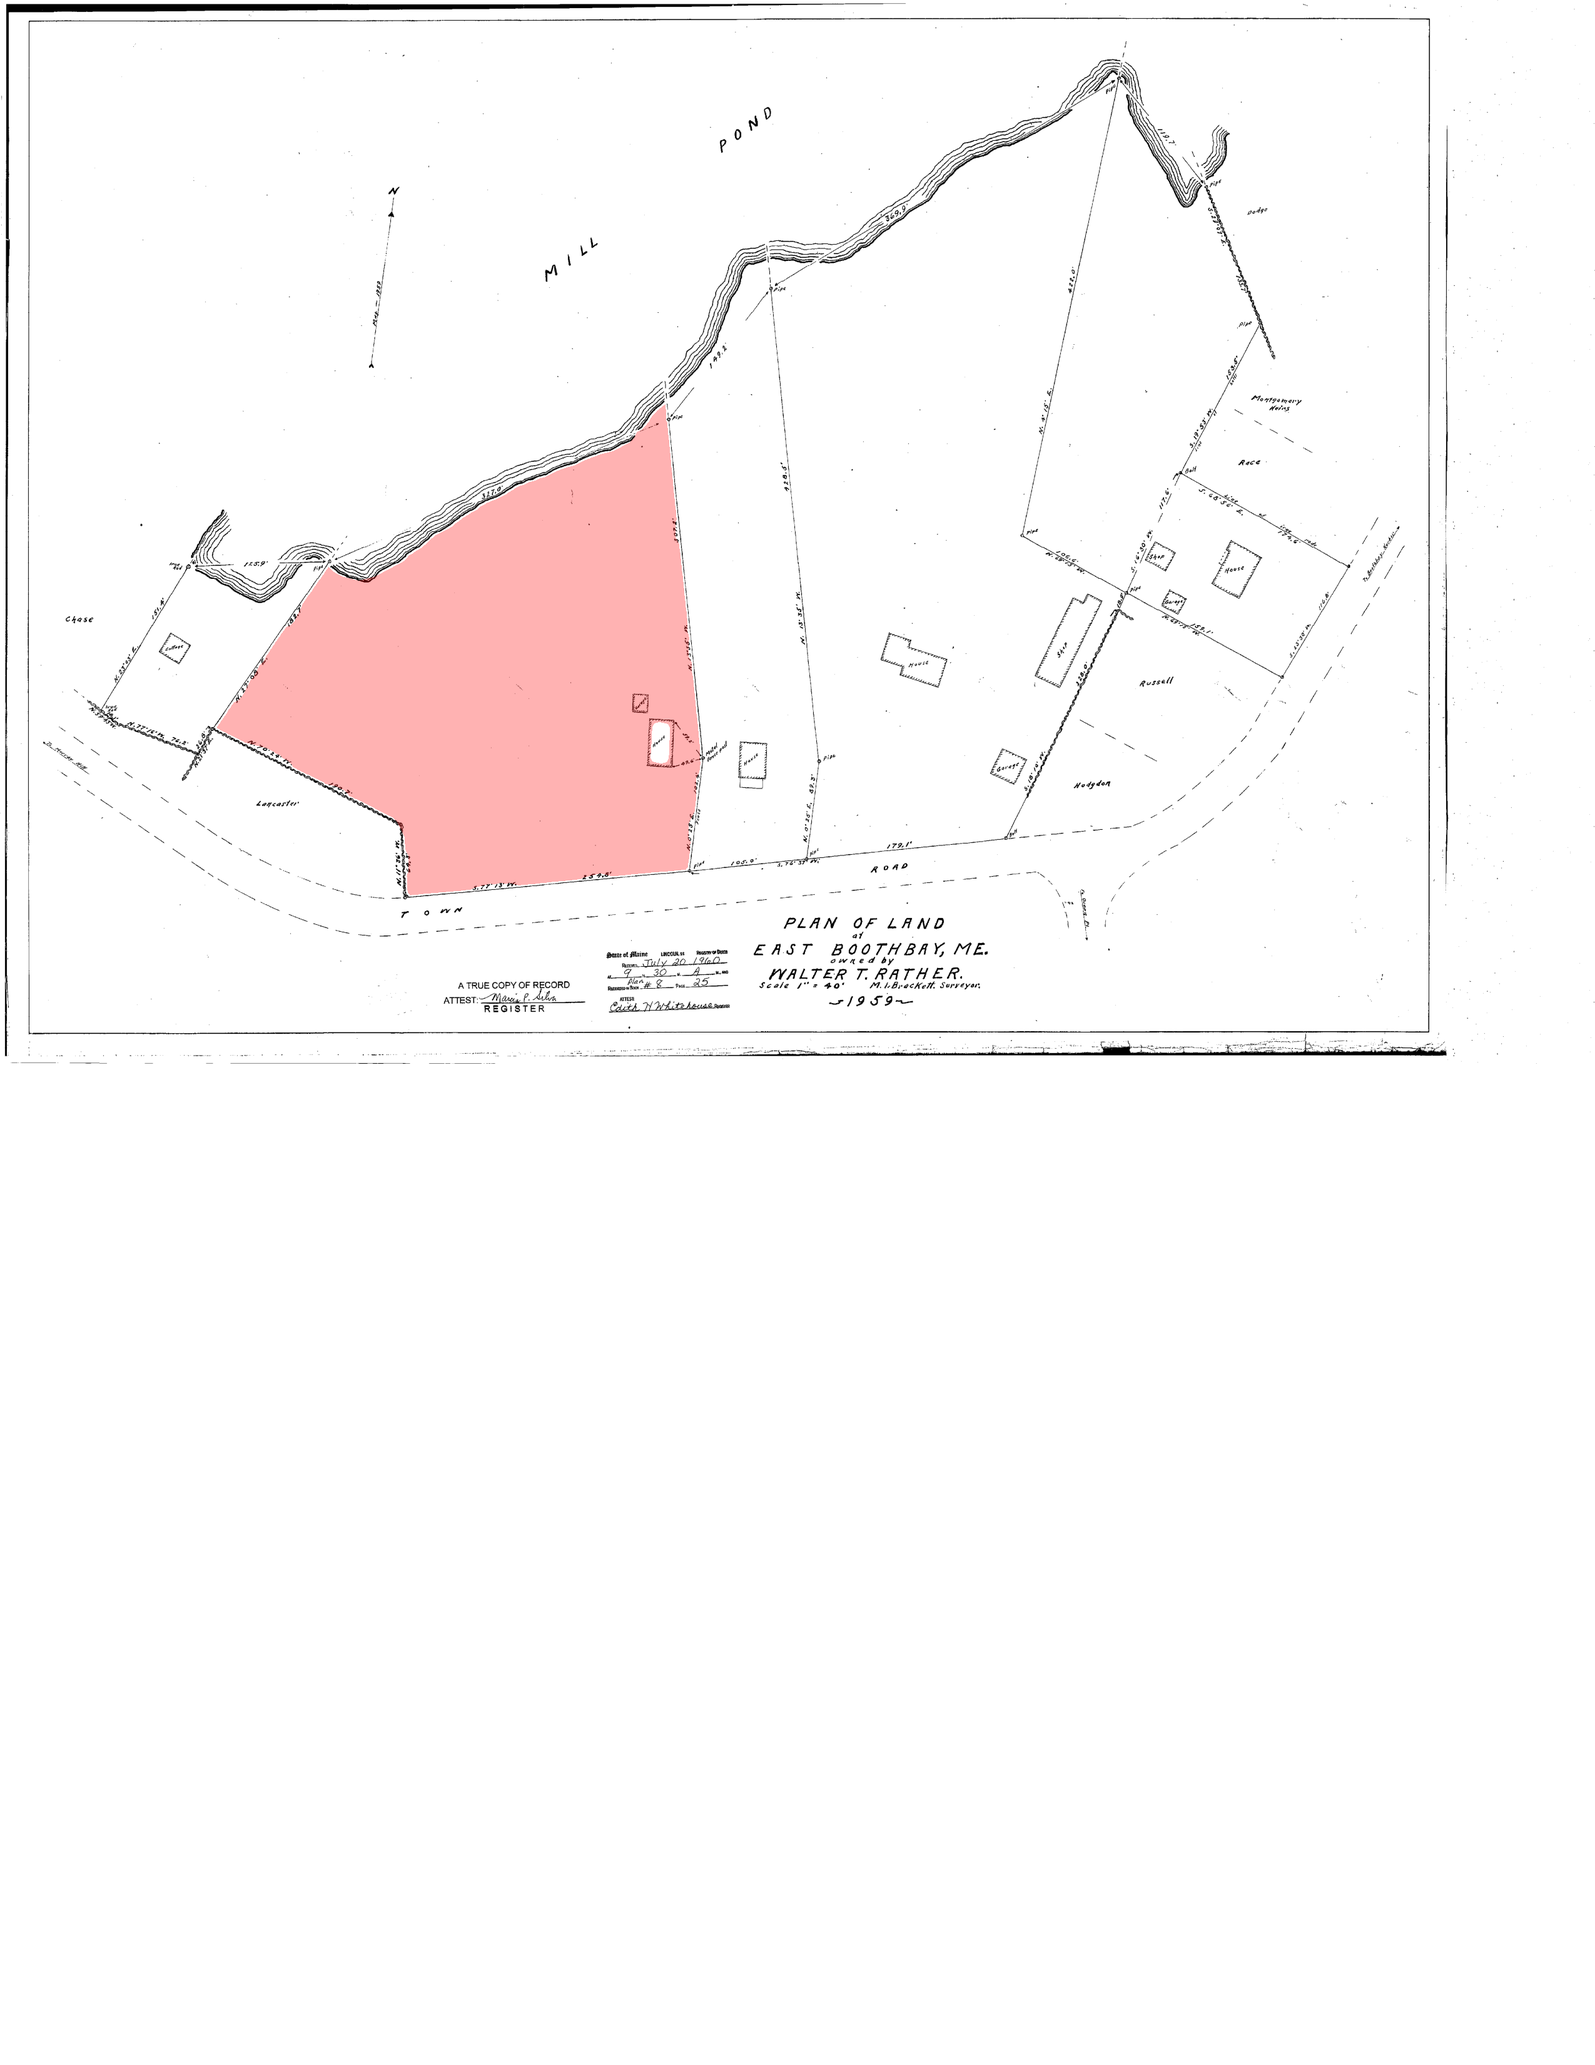
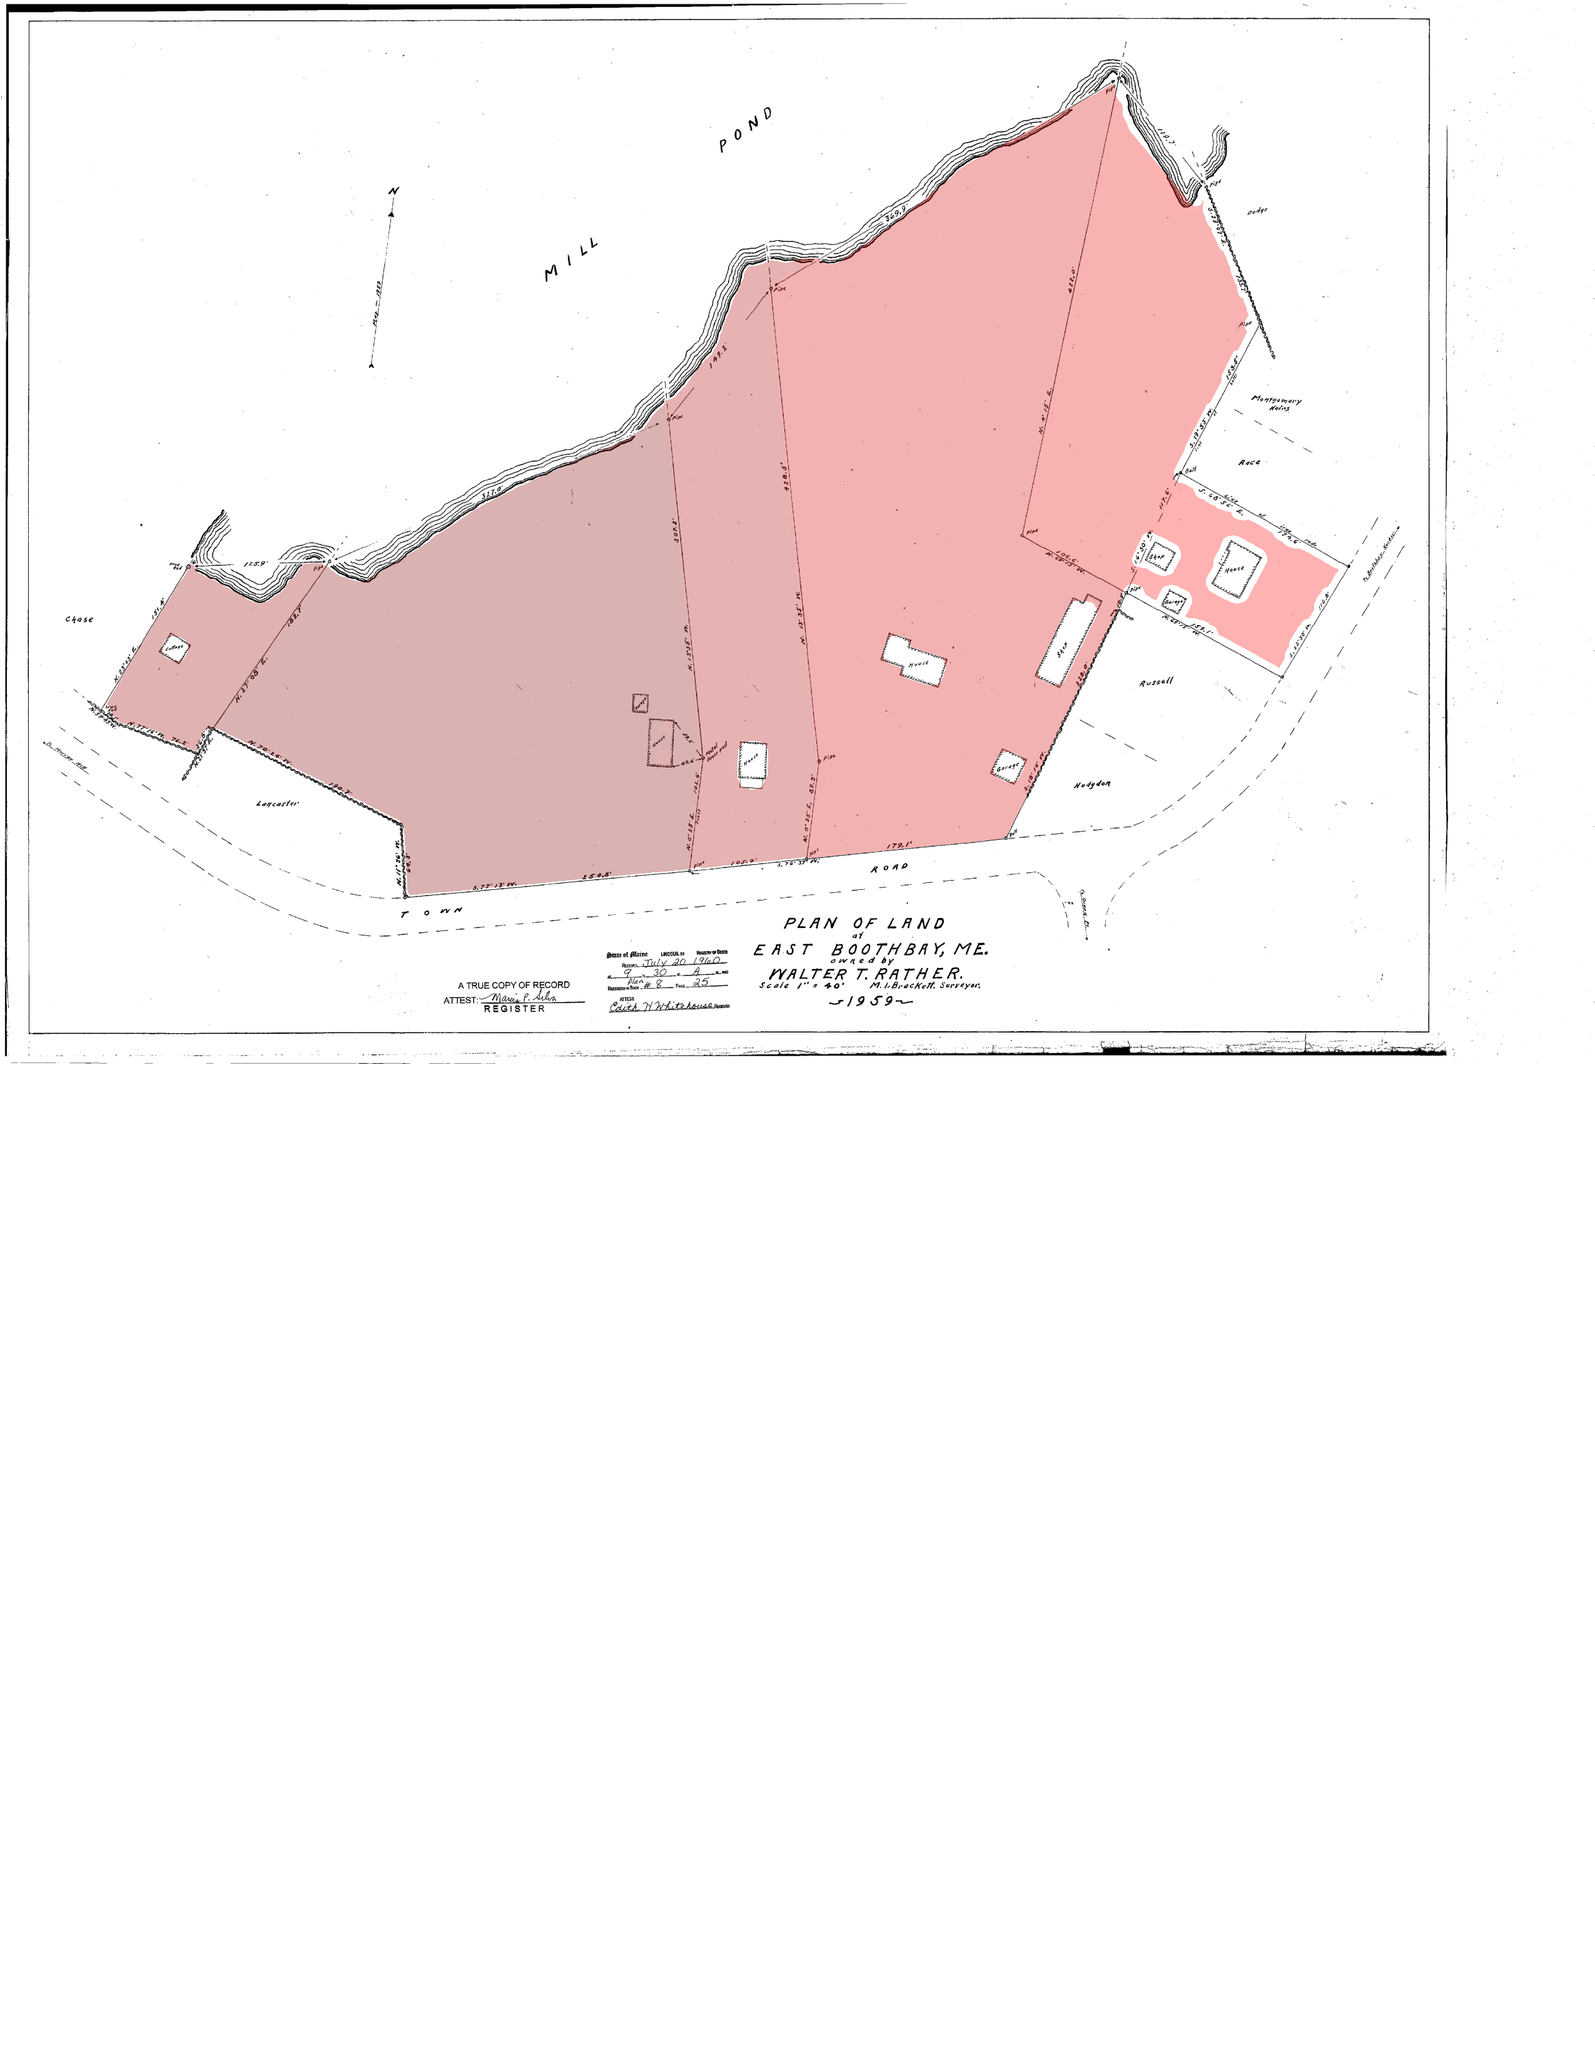
text bridging works with lots of porkfat in code.  will work to reducde this for next push. also working to have adaptive leak detection and plugging for alternate method of this current workaround.

Changed region(s): [[0.062, 0.0312, 0.8365, 0.437]]

diff --git a/SeedPointFillToMaskImageOut/SeedPointFillToMaskImageOut_qt(r9d).py b/SeedPointFillToMaskImageOut/SeedPointFillToMaskImageOut_qt(r9d).py
@@ -277,6 +277,11 @@ class FloodFillApp(QMainWindow):
         self.simplified2_parallel_contours = None
         self.skeleton_overlay_img = None
 
+        # Add debug visualization fields for bridge_outer_boundary_over_text
+        self.debug_detected_boundary_lines = []
+        self.debug_bridge_connectors = []
+        self.bridged_regions_mask = None  # Accumulates all bridged areas across seed points
+
     def _make_slider(self, label, minv, maxv, val, slot=None):
         from PyQt5.QtWidgets import QVBoxLayout, QHBoxLayout, QWidget
         w = QWidget()
@@ -660,12 +665,19 @@ class FloodFillApp(QMainWindow):
         self.bridge_outer_boundary_over_text(
             gap_px, 
             dilate_strip_iters=12, 
-            ransac_residual=1.6, 
+            ransac_residual=1.5, 
             min_line_len_px=40, 
             band_thick=14, 
             guide_thick=16, 
-            close_iters=6, 
-            finalize_max_dev_px=16)
+            close_iters=2, 
+            finalize_max_dev_px=20,
+            # NEW gap bridging params
+            enable_gap_bridging=True,
+            parallel_angle_tol_deg=10.0,  # stricter alignment
+            max_gap_distance=None,         # auto (8× local_radius)
+            bridge_line_thick=1,         # auto (local_radius)
+            min_sample_line_len_px=40  # NEW: explicit control for sample line geometry minimum length
+        )
 
 
         # === 7) Local cleanup (closing) ===
@@ -1025,6 +1037,34 @@ class FloodFillApp(QMainWindow):
                     painter.drawEllipse(QPoint(x, y), 8, 8)
             painter.end()
                 # Draw skeleton best-fit lines in cyan
+        # Draw detected boundary long lines in yellow
+        if hasattr(self, 'debug_detected_boundary_lines') and self.debug_detected_boundary_lines:
+            painter = QPainter(self.canvas.pixmap())
+            pen = QPen(QColor(255, 255, 0, 200))  # Yellow, semi-transparent
+            pen.setWidth(3)
+            pen.setCapStyle(Qt.RoundCap)
+            painter.setPen(pen)
+            for pt1, pt2 in self.debug_detected_boundary_lines:
+                x1, y1 = self.image_to_canvas_coords(pt1[0], pt1[1])
+                x2, y2 = self.image_to_canvas_coords(pt2[0], pt2[1])
+                painter.drawLine(x1, y1, x2, y2)
+            painter.end()
+    
+        # Draw bridge connectors in bright green
+        if hasattr(self, 'debug_bridge_connectors') and self.debug_bridge_connectors:
+            painter = QPainter(self.canvas.pixmap())
+            pen = QPen(QColor(128, 128, 128, 220))  # Bright green
+            pen.setWidth(1)
+            pen.setCapStyle(Qt.RoundCap)
+            painter.setPen(pen)
+            for b1, b2 in self.debug_bridge_connectors:
+                x1, y1 = self.image_to_canvas_coords(b1[0], b1[1])
+                x2, y2 = self.image_to_canvas_coords(b2[0], b2[1])
+                painter.drawLine(x1, y1, x2, y2)
+                # Draw endpoint markers
+                painter.drawEllipse(QPoint(x1, y1), 6, 6)
+                painter.drawEllipse(QPoint(x2, y2), 6, 6)
+            painter.end()
 
     def clear_canvas(self):
         if hasattr(self, 'original_image') and self.original_image is not None:
@@ -1054,6 +1094,11 @@ class FloodFillApp(QMainWindow):
         self.distance_label.setText("Right Click Distance Measure: N/A")
         self.scale_factor_label.setText("Scale Factor: Not set")
         self.update_canvas_image()
+        self.debug_detected_boundary_lines = []
+        self.debug_bridge_connectors = []
+        self.bridged_regions_mask = None  # NEW: Reset bridged regions
+        self.update_canvas_image()
+
 
     def fit_to_view(self):
         if self.image is None:
@@ -2691,10 +2736,20 @@ class FloodFillApp(QMainWindow):
         band_thick: int = None,
         guide_thick: int = None,
         close_iters: int = 2,
-        finalize_max_dev_px: float = 6.0
+        finalize_max_dev_px: float = 6.0,
+        # NEW: gap bridging params
+        enable_gap_bridging: bool = True,
+        parallel_angle_tol_deg: float = 15.0,
+        max_gap_distance: float = None,
+        bridge_line_thick: int = None,
+        # NEW: explicit control for sample line geometry minimum length
+        min_sample_line_len_px: int = None  # NEW PARAMETER
     ):
         """
         Bridge the outer boundary contour across near-parallel text defects lying just outside the mask.
+        Detects pairs of nearly-parallel long lines on opposite sides of text belts and bridges them.
+        Skips areas already bridged in previous seed point operations.
+
         Tunables:
         - dilate_strip_iters: widen the outside strip used to detect/suppress text belts.
         - ransac_residual: residual threshold for long-line detection (lower = stricter).
@@ -2703,6 +2758,11 @@ class FloodFillApp(QMainWindow):
         - guide_thick: thickness of line-guided fill drawn into the envelope.
         - close_iters: closing iterations when reconnecting the boundary.
         - finalize_max_dev_px: snapping tolerance when re-simplifying the updated outer contour.
+        - enable_gap_bridging: enable parallel line detection and bridging.
+        - parallel_angle_tol_deg: max angular difference (degrees) to consider lines parallel.
+        - max_gap_distance: max perpendicular distance between parallel line pairs (auto if None).
+        - bridge_line_thick: thickness of lines drawn to bridge gaps (auto if None).
+        - min_sample_line_len_px: minimum line length for contour sample line geometry creation (overrides min_line_len_px if set).
         """
         if self.mask is None or np.count_nonzero(self.mask) == 0:
             return
@@ -2716,18 +2776,35 @@ class FloodFillApp(QMainWindow):
         # Local scale (base from gap)
         local_radius = int(np.clip(max(1, gap_px), 2, 12))
 
+        # NEW: Use min_sample_line_len_px if provided, otherwise fall back to min_line_len_px or auto-calculate
+        if min_sample_line_len_px is not None:
+            effective_min_line_len = min_sample_line_len_px
+        elif min_line_len_px is not None:
+            effective_min_line_len = min_line_len_px
+        else:
+            effective_min_line_len = max(60, local_radius * 10)
+
         # Derived defaults if not provided
-        if min_line_len_px is None:
-            min_line_len_px = max(60, local_radius * 10)
         if band_thick is None:
             band_thick = max(8, local_radius + 3)
         if guide_thick is None:
             guide_thick = max(3, local_radius - 1)
+        if max_gap_distance is None:
+            max_gap_distance = float(local_radius * 8)  # auto: 8× local radius
+        if bridge_line_thick is None:
+            bridge_line_thick = max(4, local_radius)
 
         # Build widened outside strip next to the current outer contour
         se_rect = cv2.getStructuringElement(cv2.MORPH_RECT, (2 * local_radius + 1, 2 * local_radius + 1))
         dil_wide = cv2.dilate(mask_u8, se_rect, iterations=max(1, int(dilate_strip_iters)))
         outside_strip = cv2.bitwise_and(dil_wide, cv2.bitwise_not(mask_u8))
+    
+        # NEW: Initialize bridged_regions_mask if first call
+        if self.bridged_regions_mask is None:
+            self.bridged_regions_mask = np.zeros_like(mask_u8, dtype=np.uint8)
+        # NEW: Exclude already-bridged areas from the outside strip
+        outside_strip_unbridged = cv2.bitwise_and(outside_strip, cv2.bitwise_not(self.bridged_regions_mask))
+
 
         # Detect longer straight outer boundary runs via sliding-window RANSAC
         ref_pts = ref_outer.reshape(-1, 2).astype(np.float32)
@@ -2754,34 +2831,100 @@ class FloodFillApp(QMainWindow):
                 t_min, t_max = float(np.min(t_vals)), float(np.max(t_vals))
                 p1 = (model.params[0] + t_min * model.params[1]).astype(np.float32)
                 p2 = (model.params[0] + t_max * model.params[1]).astype(np.float32)
-                if float(np.linalg.norm(p2 - p1)) >= float(min_line_len_px):
-                    detected_lines.append((tuple(p1.astype(int)), tuple(p2.astype(int))))
+                # NEW: Use effective_min_line_len instead of min_line_len_px
+                if float(np.linalg.norm(p2 - p1)) >= float(effective_min_line_len):
+                    # Store (p1, p2, direction_unit_vec, origin_point)
+                    direction = model.params[1] / np.linalg.norm(model.params[1])
+                    detected_lines.append((tuple(p1.astype(int)), tuple(p2.astype(int)),
+                                           direction.astype(np.float32), model.params[0].astype(np.float32)))
         except Exception:
             pass
 
         se_close = cv2.getStructuringElement(cv2.MORPH_ELLIPSE, (2 * local_radius + 1, 2 * local_radius + 1))
 
+
+        # NEW: Gap bridging via parallel line pairing (only in unbridged areas)
+        bridge_lines = []
+        if enable_gap_bridging and len(detected_lines) >= 2:
+            def perp_distance(origin1, dir1, origin2):
+                v = origin2 - origin1
+                proj = float(np.dot(v, dir1))
+                perp = v - proj * dir1
+                return float(np.linalg.norm(perp))
+
+            angle_tol_rad = np.deg2rad(parallel_angle_tol_deg)
+            for i in range(len(detected_lines)):
+                p1_i, p2_i, dir_i, orig_i = detected_lines[i]
+                for j in range(i + 1, len(detected_lines)):
+                    p1_j, p2_j, dir_j, orig_j = detected_lines[j]
+        
+                    dot = float(np.abs(np.dot(dir_i, dir_j)))
+                    if dot < np.cos(angle_tol_rad):
+                        continue
+        
+                    dist = perp_distance(orig_i, dir_i, orig_j)
+                    if dist > max_gap_distance:
+                        continue
+        
+                    mid_i = ((np.array(p1_i) + np.array(p2_i)) / 2).astype(np.float32)
+                    mid_j = ((np.array(p1_j) + np.array(p2_j)) / 2).astype(np.float32)
+        
+                    # NEW: Check if ANY part of the bridge line intersects already-bridged areas
+                    # Create a temporary mask with just this proposed bridge
+                    temp_bridge_mask = np.zeros_like(self.bridged_regions_mask, dtype=np.uint8)
+                    cv2.line(temp_bridge_mask, tuple(mid_i.astype(int)), tuple(mid_j.astype(int)), 
+                             255, thickness=int(bridge_line_thick))
+            
+                    # Check for overlap with existing bridged regions
+                    overlap = cv2.bitwise_and(temp_bridge_mask, self.bridged_regions_mask)
+                    if np.count_nonzero(overlap) > 0:
+                        continue  # Skip this bridge - overlaps with already-bridged area
+        
+                    bridge_lines.append((tuple(mid_i.astype(int)), tuple(mid_j.astype(int))))
+
         if detected_lines:
-            # Thicker suppression band, limited to outside strip
+            # ... existing suppression and guided fill code ...
+        
+            # Thicker suppression band, limited to UNBRIDGED outside strip
             longline_band = np.zeros_like(mask_u8, dtype=np.uint8)
-            for p1, p2 in detected_lines:
+            for p1, p2, _, _ in detected_lines:
                 cv2.line(longline_band, p1, p2, 255, thickness=int(band_thick))
             longline_band = cv2.dilate(longline_band, se_close, iterations=1)
 
-            suppression = cv2.bitwise_and(longline_band, outside_strip)
+            # NEW: Use unbridged strip instead of full outside_strip
+            suppression = cv2.bitwise_and(longline_band, outside_strip_unbridged)
 
-            # Envelope minus suppression
             envelope = cv2.dilate(mask_u8, se_close, iterations=1)
             env_after_suppress = cv2.bitwise_and(envelope, cv2.bitwise_not(suppression))
 
-            # Line-guided fill: rasterize long boundary lines back into the envelope to bridge across the text gap
             guided = env_after_suppress.copy()
-            for p1, p2 in detected_lines:
+            for p1, p2, _, _ in detected_lines:
                 cv2.line(guided, p1, p2, 255, thickness=int(guide_thick))
+        
+            for b1, b2 in bridge_lines:
+                cv2.line(guided, b1, b2, 255, thickness=int(bridge_line_thick))
 
-            # Close with the guided envelope
             closed = cv2.morphologyEx(mask_u8, cv2.MORPH_CLOSE, se_close, iterations=int(close_iters))
             self.mask = cv2.bitwise_and(closed, guided)
+
+            # NEW: Mark newly bridged areas in the persistent mask
+            if enable_gap_bridging and bridge_lines:
+                new_bridges_mask = np.zeros_like(mask_u8, dtype=np.uint8)
+                for b1, b2 in bridge_lines:
+                    # Draw bridge with wider thickness to mark the bridged zone
+                    cv2.line(new_bridges_mask, b1, b2, 255, thickness=int(bridge_line_thick * 3))
+                    cv2.line(self.mask, b1, b2, 255, thickness=int(bridge_line_thick))
+            
+                # Dilate the bridge zone to create an exclusion buffer
+                exclusion_kernel = cv2.getStructuringElement(cv2.MORPH_ELLIPSE, 
+                                                              (int(max_gap_distance), int(max_gap_distance)))
+                new_bridges_mask = cv2.dilate(new_bridges_mask, exclusion_kernel, iterations=1)
+            
+                # Add to persistent bridged regions mask
+                self.bridged_regions_mask = cv2.bitwise_or(self.bridged_regions_mask, new_bridges_mask)
+            
+                # Re-close to smooth
+                self.mask = cv2.morphologyEx(self.mask, cv2.MORPH_CLOSE, se_close, iterations=1)
         else:
             # Fallback: stronger close+envelope
             closed = cv2.morphologyEx(mask_u8, cv2.MORPH_CLOSE, se_close, iterations=int(close_iters))
@@ -2797,6 +2940,10 @@ class FloodFillApp(QMainWindow):
                          255, thickness=max(4, local_radius))
             protect = cv2.dilate(protect, se_close, iterations=1)
             self.mask[protect > 0] = (pre_close_mask[protect > 0]).astype(np.uint8) * 255
+
+
+        self.debug_detected_boundary_lines = [(p1, p2) for p1, p2, _, _ in detected_lines]
+        self.debug_bridge_connectors = bridge_lines.copy() if bridge_lines else []
 
         # # Optional: re-simplify updated outer contour for display fidelity with tunable snapping tolerance
         # try:
